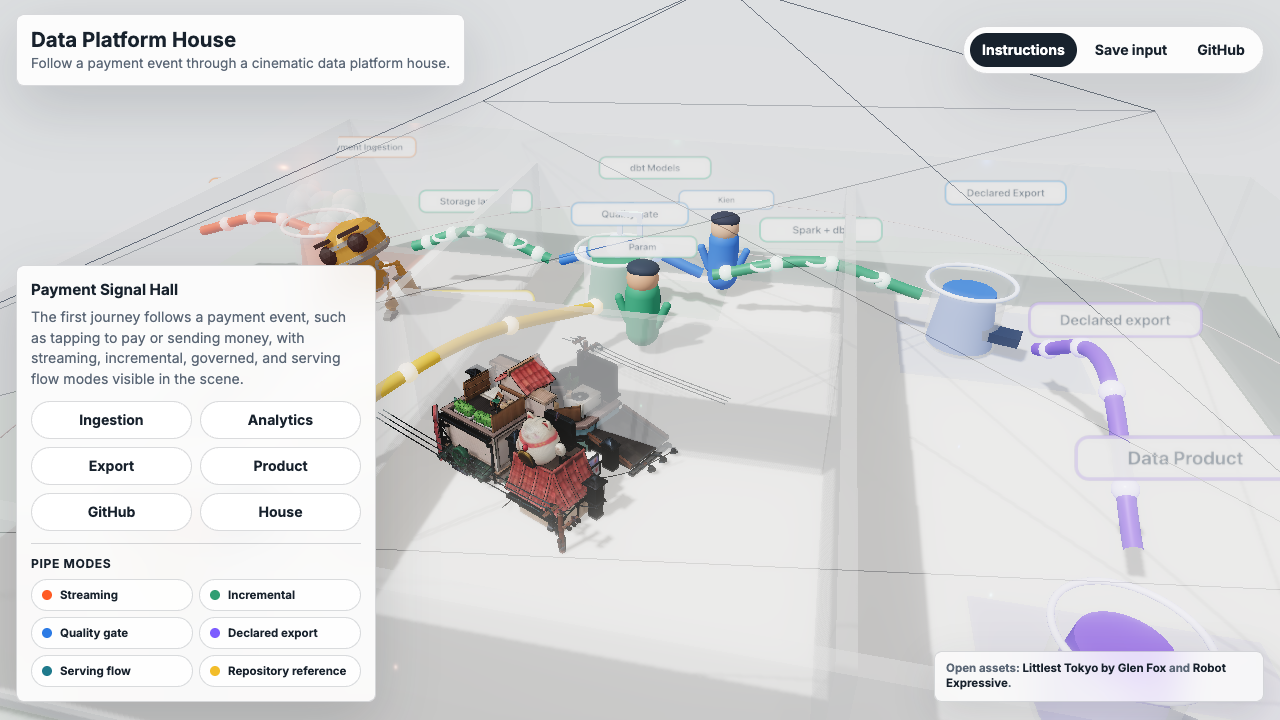
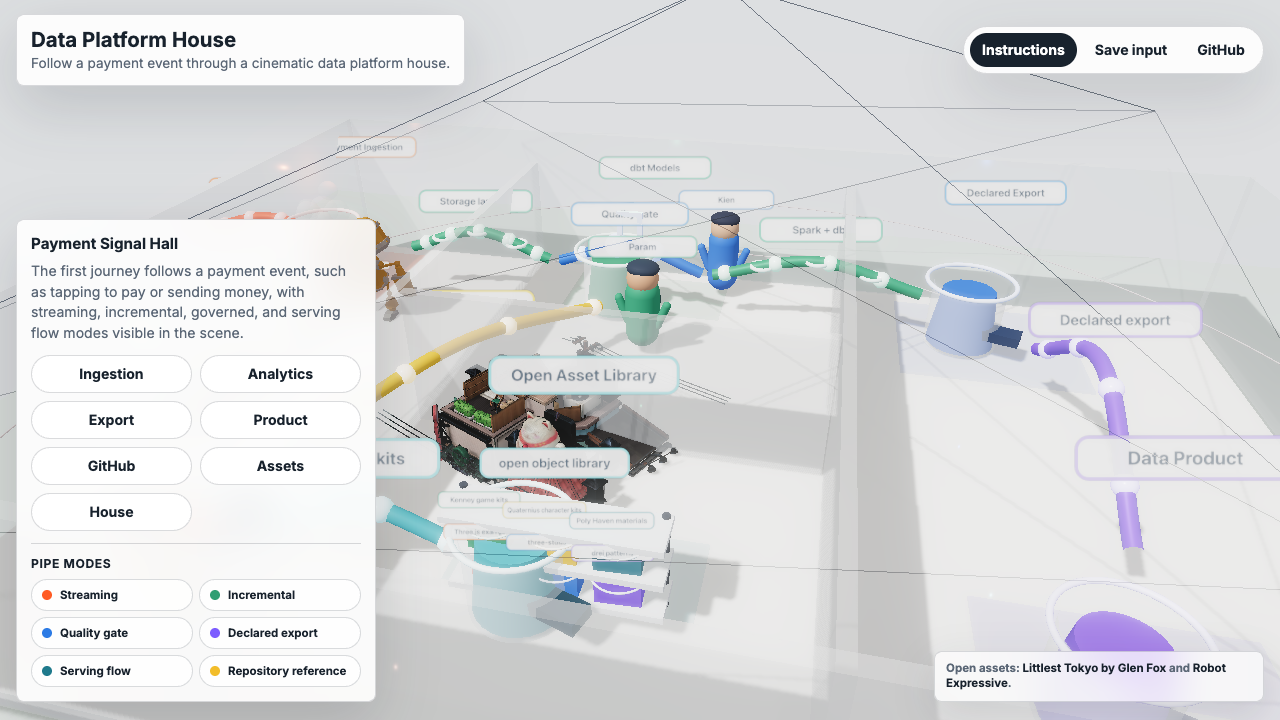
Add open object library direction

diff --git a/data-platform-example/index.html b/data-platform-example/index.html
@@ -423,12 +423,23 @@
         <button class="focus-button" type="button" data-focus="export">Export</button>
         <button class="focus-button" type="button" data-focus="product">Product</button>
         <button class="focus-button" type="button" data-focus="github">GitHub</button>
+        <button class="focus-button" type="button" data-focus="assets">Assets</button>
         <button class="focus-button" type="button" data-focus="house">House</button>
       </div>
       <div class="repository-links" id="repository-links" hidden aria-label="Public repository links">
         <a href="https://github.com/isakrs/modern-data-platform-example">modern-data-platform-example <span>Blueprint</span></a>
         <a href="https://github.com/isakrs/vipps-isakrs">vipps-isakrs <span>This world</span></a>
         <a href="https://github.com/isakrs/opcua-influxdb-grafana-dummy">opcua-influxdb-grafana-dummy <span>Later</span></a>
+      </div>
+      <div class="repository-links" id="asset-links" hidden aria-label="Open object library links">
+        <a href="https://threejs.org/examples/">Three.js examples <span>Mechanics</span></a>
+        <a href="https://github.com/pmndrs/three-stdlib">three-stdlib <span>Helpers</span></a>
+        <a href="https://github.com/pmndrs/drei">drei patterns <span>Components</span></a>
+        <a href="https://kenney.nl/assets?category=3d">Kenney <span>Game kits</span></a>
+        <a href="https://quaternius.com/">Quaternius <span>Characters</span></a>
+        <a href="https://polyhaven.com/">Poly Haven <span>Materials</span></a>
+        <a href="https://ambientcg.com/">ambientCG <span>Textures</span></a>
+        <a href="https://github.com/KhronosGroup/glTF-Sample-Assets">Khronos glTF Sample Assets <span>glTF</span></a>
       </div>
       <div class="flow-legend" aria-label="Flow mode legend">
         <h3>Pipe modes</h3>
@@ -489,6 +500,7 @@
       const currentRoom = document.querySelector("#current-room");
       const currentCopy = document.querySelector("#current-copy");
       const repositoryLinks = document.querySelector("#repository-links");
+      const assetLinks = document.querySelector("#asset-links");
       const dialogue = document.querySelector("#dialogue");
       const speakerName = document.querySelector("#speaker-name");
       const speakerCopy = document.querySelector("#speaker-copy");
@@ -575,6 +587,10 @@
         github: {
           title: "GitHub Library",
           copy: "Public repositories from Isak's account become blueprints: platform operating model, this Three.js world, and later sensor-event examples."
+        },
+        assets: {
+          title: "Open Asset Library",
+          copy: "Great open object libraries become the shelves for the house: proven Three.js examples, reusable helpers, permissive models, materials, lights, and glTF test assets."
         }
       };
 
@@ -584,7 +600,8 @@
         analytics: { target: [-1.8, 0.3, -3.8], offset: [2, 7.3, 8.7] },
         export: { target: [4.6, 0.3, -3.6], offset: [2, 7.4, 8.6] },
         product: { target: [5.6, 0.3, 3.3], offset: [1.2, 7.6, 8.9] },
-        github: { target: [-5.6, 0.3, 3.4], offset: [1.4, 7.2, 8.4] }
+        github: { target: [-5.6, 0.3, 3.4], offset: [1.4, 7.2, 8.4] },
+        assets: { target: [-1, 0.3, 3.25], offset: [1.2, 7.2, 8.3] }
       };
 
       const rooms = [
@@ -592,7 +609,17 @@
         { id: "analytics", name: "dbt Models", x: -1.7, z: -3.8, color: 0x2f9e73 },
         { id: "export", name: "Declared Export", x: 4.3, z: -3.8, color: 0x2c7be5 },
         { id: "github", name: "GitHub Library", x: -5.5, z: 3.4, color: 0xf2bd2a },
+        { id: "assets", name: "Open Asset Library", x: -1, z: 3.25, color: 0x37b6c4 },
         { id: "product", name: "Data Product", x: 4.8, z: 3.4, color: 0x7c5cff }
+      ];
+
+      const openComponentLibraries = [
+        { name: "Three.js examples", color: 0xff5b24 },
+        { name: "three-stdlib", color: 0x2c7be5 },
+        { name: "drei patterns", color: 0x7c5cff },
+        { name: "Kenney game kits", color: 0x2f9e73 },
+        { name: "Quaternius character kits", color: 0xf2bd2a },
+        { name: "Poly Haven materials", color: 0x1f7a8c }
       ];
 
       const roomById = new Map(rooms.map((room) => [room.id, room]));
@@ -606,6 +633,7 @@
       const isakFallback = addCharacters();
       loadAnimatedGuide(isakFallback);
       addRepositoryTable();
+      addAssetLibraryWorkbench();
       addSmokePuffs();
 
       document.querySelectorAll("[data-focus]").forEach((button) => {
@@ -960,6 +988,7 @@
         makePipe("Declared export", [4.7, 0.8, -2.4], [4.9, 0.8, 1.85], 0x7c5cff, "export", 4);
         makePipe("Serving flow", [6.1, 0.86, 3.4], [9.3, 0.86, 3.4], 0x1f7a8c, "serving", 4);
         makePipe("GitHub Actions", [-4.8, 0.75, 2.1], [-2.1, 0.75, -2.4], 0xf2bd2a, "reference", 3);
+        makePipe("Open object kits", [-4.35, 0.78, 3.45], [-2.15, 0.78, 3.3], 0x37b6c4, "reference", 3);
       }
 
       function makePipe(name, from, to, color, type, count) {
@@ -1106,7 +1135,7 @@
           position: [-4.9, 0, 4.35],
           colors: [0xf2bd2a, 0x27384d, 0xc98f6f],
           dialogue:
-            "I am at the blueprint table. modern-data-platform-example explains the operating model, and vipps-isakrs shows how this world is built and automated. The pipe language should teach design choices, not only path direction."
+            "I am at the blueprint table. modern-data-platform-example explains the operating model, vipps-isakrs shows how this world is built and automated, and the open asset library helps us borrow strong objects before we model by hand."
         });
 
         return isak;
@@ -1261,6 +1290,77 @@
         scene.add(makeLabel("vipps-isakrs", new THREE.Vector3(-5.2, 1.08, 3.72), 0xff5b24, 0.46));
       }
 
+      function addAssetLibraryWorkbench() {
+        const shelf = new THREE.Group();
+        shelf.position.set(-1, 0, 3.25);
+
+        const frameMaterial = new THREE.MeshStandardMaterial({
+          color: 0x243447,
+          roughness: 0.48,
+          metalness: 0.18
+        });
+        const shelfMaterial = new THREE.MeshStandardMaterial({
+          color: 0xffffff,
+          roughness: 0.56,
+          metalness: 0.08
+        });
+
+        [0.38, 0.84, 1.3].forEach((height) => {
+          const plank = new THREE.Mesh(new THREE.BoxGeometry(2.35, 0.08, 0.55), shelfMaterial);
+          plank.position.set(0, height, 0);
+          plank.castShadow = true;
+          plank.receiveShadow = true;
+          shelf.add(plank);
+        });
+
+        [-1.1, 1.1].forEach((x) => {
+          const support = new THREE.Mesh(new THREE.CylinderGeometry(0.045, 0.045, 1.3, 10), frameMaterial);
+          support.position.set(x, 0.72, -0.23);
+          support.castShadow = true;
+          shelf.add(support);
+        });
+
+        openComponentLibraries.forEach((source, index) => {
+          const column = index % 3;
+          const row = Math.floor(index / 3);
+          const crate = new THREE.Mesh(
+            new THREE.BoxGeometry(0.5, 0.3, 0.32),
+            new THREE.MeshStandardMaterial({
+              color: source.color,
+              emissive: source.color,
+              emissiveIntensity: 0.1,
+              roughness: 0.4,
+              metalness: 0.08
+            })
+          );
+          crate.position.set((column - 1) * 0.67, 0.56 + row * 0.46, 0.03);
+          crate.rotation.y = (column - 1) * 0.06;
+          crate.castShadow = true;
+          shelf.add(crate);
+
+          const glow = new THREE.Mesh(
+            new THREE.TorusGeometry(0.32, 0.012, 8, 32),
+            new THREE.MeshStandardMaterial({
+              color: 0xffffff,
+              emissive: source.color,
+              emissiveIntensity: 0.28,
+              roughness: 0.24
+            })
+          );
+          glow.position.copy(crate.position);
+          glow.position.y += 0.2;
+          glow.rotation.x = Math.PI / 2;
+          shelf.add(glow);
+
+          scene.add(
+            makeLabel(source.name, new THREE.Vector3(-1.67 + column * 0.67, 1.25 + row * 0.42, 3.55), source.color, 0.34)
+          );
+        });
+
+        scene.add(shelf);
+        scene.add(makeLabel("open object library", new THREE.Vector3(-1, 1.95, 3.18), 0x37b6c4, 0.62));
+      }
+
       function addSmokePuffs() {
         for (let index = 0; index < 26; index += 1) {
           const puff = new THREE.Mesh(
@@ -1326,6 +1426,7 @@
         currentRoom.textContent = details.title;
         currentCopy.textContent = details.copy;
         repositoryLinks.hidden = id !== "github";
+        assetLinks.hidden = id !== "assets";
       }
 
       function pickCharacter(event) {

diff --git a/data-platform-example/instructions/index.md b/data-platform-example/instructions/index.md
@@ -54,6 +54,31 @@ title: Data Platform House Instructions And Backlog
     display: block;
     font-size: 0.92em;
   }
+
+  .data-platform-source-grid {
+    display: grid;
+    gap: 12px;
+    grid-template-columns: repeat(auto-fit, minmax(220px, 1fr));
+    margin: 16px 0 24px;
+  }
+
+  .data-platform-source {
+    border: 1px solid #d0d7de;
+    border-radius: 8px;
+    background: #ffffff;
+    padding: 12px;
+  }
+
+  .data-platform-source strong {
+    display: block;
+    margin-bottom: 4px;
+  }
+
+  .data-platform-source span {
+    color: #57606a;
+    display: block;
+    font-size: 0.92em;
+  }
 </style>
 
 ## Routes
@@ -113,10 +138,10 @@ record when a conversation produces useful public-safe feedback.
 ## Open Asset Strategy
 
 The experience should reuse strong existing Three.js examples, open three-dimensional
-assets, and proven animation patterns wherever that gets the house closer to a
-polished game faster. Do not reinvent character animation, keyframe animation,
-lighting, loaders, or staged environment structure when a permissive example
-already shows the right shape.
+assets, open object libraries, and proven animation patterns wherever that gets
+the house closer to a polished game faster. Do not reinvent character animation,
+keyframe animation, lighting, loaders, controls, materials, props, or staged
+environment structure when a permissive example already shows the right shape.
 
 Reuse must still be tidy:
 
@@ -126,6 +151,47 @@ Reuse must still be tidy:
 - Give visible credit when attribution is required or useful.
 - Keep a procedural fallback for important external assets so the page does not
   break if a model cannot load.
+- Prefer direct vanilla Three.js adaptation for this repository. React-oriented
+  libraries can inspire object patterns and interaction design, but should not
+  force a framework or bundler into this static page unless the project
+  deliberately changes direction.
+
+The first preferred sources are:
+
+<div class="data-platform-source-grid" aria-label="Preferred open object sources">
+  <article class="data-platform-source">
+    <strong><a href="https://threejs.org/examples/">Three.js examples</a></strong>
+    <span>Use for animation, loaders, postprocessing, camera behavior, interaction patterns, and credited sample models.</span>
+  </article>
+  <article class="data-platform-source">
+    <strong><a href="https://github.com/pmndrs/three-stdlib">three-stdlib</a></strong>
+    <span>Use for reusable Three.js helpers and examples that can fit a static vanilla page.</span>
+  </article>
+  <article class="data-platform-source">
+    <strong><a href="https://github.com/pmndrs/drei">drei</a></strong>
+    <span>Use as inspiration for mature scene components, controls, effects, and interaction patterns, then adapt carefully.</span>
+  </article>
+  <article class="data-platform-source">
+    <strong><a href="https://kenney.nl/assets?category=3d">Kenney</a></strong>
+    <span>Use for cohesive Creative Commons Zero game-ready props, interface assets, and environment kits.</span>
+  </article>
+  <article class="data-platform-source">
+    <strong><a href="https://quaternius.com/">Quaternius</a></strong>
+    <span>Use for Creative Commons Zero low-poly characters, buildings, furniture, pipes, dinosaurs, and animation-friendly game kits.</span>
+  </article>
+  <article class="data-platform-source">
+    <strong><a href="https://polyhaven.com/">Poly Haven</a></strong>
+    <span>Use for Creative Commons Zero physically based materials, high-dynamic-range lighting, and realistic model detail.</span>
+  </article>
+  <article class="data-platform-source">
+    <strong><a href="https://ambientcg.com/">ambientCG</a></strong>
+    <span>Use for Creative Commons Zero textures, materials, and surface realism.</span>
+  </article>
+  <article class="data-platform-source">
+    <strong><a href="https://github.com/KhronosGroup/glTF-Sample-Assets">Khronos glTF Sample Assets</a></strong>
+    <span>Use for glTF loading, validation, animation, material, and extension reference assets.</span>
+  </article>
+</div>
 
 ## Development Backlog
 
@@ -149,6 +215,10 @@ event version more convincing.
     <article class="data-platform-card">
       <strong>Improve world interaction</strong>
       <span>Make walking, tapping people, and following pipes feel more like a small game on desktop and mobile.</span>
+    </article>
+    <article class="data-platform-card">
+      <strong>Replace procedural props with open kits</strong>
+      <span>Turn hand-made machines, shelves, furniture, and pipe details into better sourced three-dimensional objects where licenses allow it.</span>
     </article>
     <article class="data-platform-card">
       <strong>Explain payment event journey</strong>
@@ -245,6 +315,10 @@ event version more convincing.
     <article class="data-platform-card">
       <strong>Borrowed open animation assets</strong>
       <span>The world now uses the Three.js keyframes house asset and the morph/skinning guide asset as credited foundations instead of hand-rolling every visual.</span>
+    </article>
+    <article class="data-platform-card">
+      <strong>Open object library shelf</strong>
+      <span>The world now has an asset-library room that points future work toward Three.js examples, reusable helpers, and permissive object libraries.</span>
     </article>
     <article class="data-platform-card">
       <strong>Pipe modes made visible</strong>
